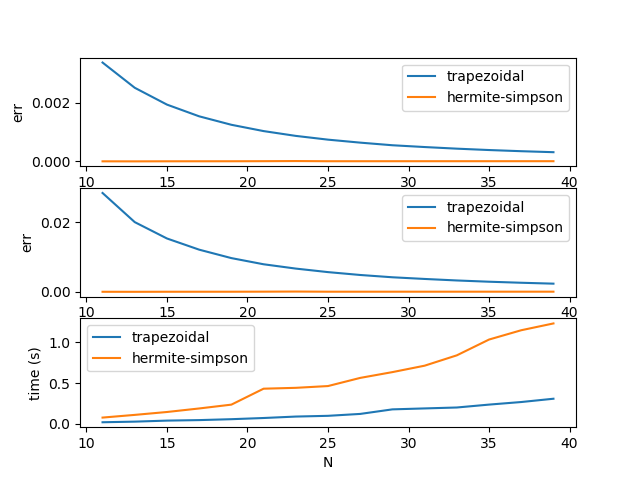
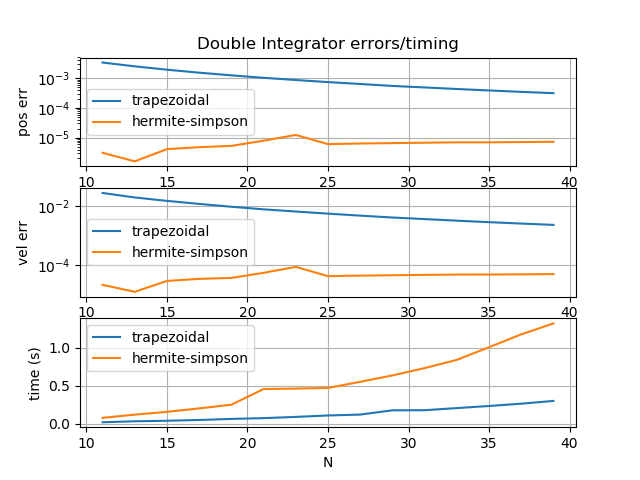
better plotting/images

diff --git a/plot_trajectories.py b/plot_trajectories.py
@@ -84,24 +84,27 @@ def plot_block(transcribed_problem, sol_vars):
     plt.subplot(3, 1, 1)
     plt.title("Double Integrator")
     plt.plot(times, analytic_control, c='steelblue', label='analytic')
-    plt.plot(times, traj_u, c='salmon', linestyle='--', label='analytic')
-    plt.scatter(t_u, u[:, 0], c='salmon', label='optimized')
+    plt.plot(times, traj_u, c='salmon', linestyle='--', label='transcription')
+    plt.scatter(t_u, u[:, 0], c='salmon', label='knot points')
     plt.ylabel("control (m/s/s)")
     plt.legend()
+    plt.grid()
 
     plt.subplot(3, 1, 2)
     plt.plot(times, analytic_pos, label='analytic')
-    plt.plot(times, traj_x[:, 0], c='salmon', linestyle='--', label='analytic')
-    plt.scatter(t_x, x[:, 0], c='salmon', label='optimized')
+    plt.plot(times, traj_x[:, 0], c='salmon', linestyle='--', label='transcription')
+    plt.scatter(t_x, x[:, 0], c='salmon', label='knot points')
     plt.ylabel("position (m)")
+    plt.grid()
 
     plt.subplot(3, 1, 3)
     plt.plot(times, analytic_vel, label='analytic')
-    plt.plot(times, traj_x[:, 1], c='salmon', linestyle='--', label='analytic')
-    plt.scatter(t_x, x[:, 1], c='salmon', label='optimized')
+    plt.plot(times, traj_x[:, 1], c='salmon', linestyle='--', label='transcription')
+    plt.scatter(t_x, x[:, 1], c='salmon', label='knot points')
     plt.ylabel("velocity (m)")
 
     plt.xlabel("time (s)")
+    plt.grid()
 
     plt.show()
 
@@ -122,11 +125,13 @@ def plot_pendulum(transcribed_problem, sol_vars):
     plt.plot(times, traj_u[:, 0], c='salmon', linestyle='--')
     plt.scatter(t_u, u[:, 0], c='salmon')
     plt.ylabel("control (rad/s/s)")
+    plt.grid()
 
     plt.subplot(3, 1, 2)
     plt.plot(times, traj_x[:, 0], c='salmon', linestyle='--')
     plt.scatter(t_x, x[:, 0], c='salmon')
     plt.ylabel("theta (rad)")
+    plt.grid()
 
     plt.subplot(3, 1, 3)
     plt.plot(times, traj_x[:, 1], c='salmon', linestyle='--')
@@ -134,6 +139,7 @@ def plot_pendulum(transcribed_problem, sol_vars):
     plt.ylabel("theta/s (rad/s)")
 
     plt.xlabel("time (s)")
+    plt.grid()
 
     plt.show()
 

diff --git a/test_errors.py b/test_errors.py
@@ -105,21 +105,27 @@ if __name__ == '__main__':
 
     plt.figure(1)
     plt.subplot(3, 1, 1)
+    plt.title("Double Integrator errors/timing")
     plt.plot(N_list, trap_pos_errs, label="trapezoidal")
     plt.plot(N_list, hermite_pos_errs, label="hermite-simpson")
-    plt.ylabel("err")
+    plt.gca().set_yscale('log')
+    plt.grid()
+    plt.ylabel("pos err")
     plt.legend()
 
     plt.subplot(3, 1, 2)
     plt.plot(N_list, trap_vel_errs, label="trapezoidal")
     plt.plot(N_list, hermite_vel_errs, label="hermite-simpson")
-    plt.ylabel("err")
+    plt.gca().set_yscale('log')
+    plt.grid()
+    plt.ylabel("vel err")
     plt.legend()
 
     plt.subplot(3, 1, 3)
     plt.plot(N_list, trap_time, label="trapezoidal")
     plt.plot(N_list, hermite_time, label="hermite-simpson")
     plt.ylabel("time (s)")
+    plt.grid()
     plt.xlabel("N")
     plt.legend()
 

diff --git a/README.md b/README.md
@@ -14,7 +14,7 @@ In addition, to test how errors scale with different different integration appro
 To run simple example:
  - python block_move_trapezoidal.py
 To run transcription.py stuff:
- - python plot_trajectories.py -p block -N 31 -i trap
+ - python plot_trajectories.py -p block -N 4 -i hermite
  - python plot_trajectories.py -p pendulum -N 31 -i trap
 To run analysis:
  - python test_errors.py
@@ -23,6 +23,8 @@ To run analysis:
 
 ![Alt text](readme_images/block.png?raw=true "double integrator data")
 ![Alt text](readme_images/pendulum.png?raw=true "pendulum data")
+
+Error on double integrator
 ![Alt text](readme_images/analysis.png?raw=true "analysis data")
 
 
